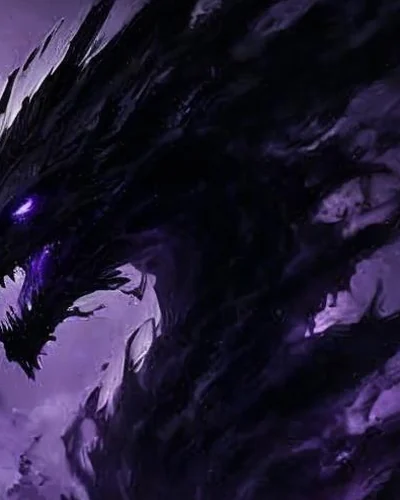
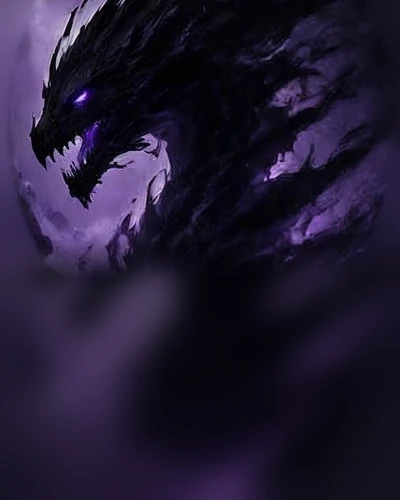
Umbral Drake: zoomed-out card art showing the whole head

diff --git a/src/i18n/cs/data/patchNotes.ts b/src/i18n/cs/data/patchNotes.ts
@@ -12,6 +12,7 @@ const notes: PatchNotesOverlay = {
         'Obrázek karty Saliho i jeho portrét Strážce jsou vycentrované, takže i jeho vstup na scénu.',
         'Nyx, Vael a Oblivie ukazují na kartě celou postavu a při legendárním vstupu jejich ostrý portrét z kampaně.',
         'Kampaň: štítek Vyzvednuto u odměny za první výhru je teď v řádku se zbytkem odměny.',
+        'Stínový drak: oddálený obrázek karty, na kterém je vidět celá hlava.',
       ],
     ],
   },

diff --git a/src/data/patchNotes.ts b/src/data/patchNotes.ts
@@ -36,6 +36,7 @@ export const PATCH_NOTES: PatchNote[] = [
           'Sali\'s card art and Warden portrait are centred, so his entrance is too.',
           'Nyx, Vael and Oblivia show their whole figure on the card, and their legendary entrance uses their sharp campaign portrait.',
           'Campaign: the Claimed tag of a first-clear reward lines up with the rest of the reward.',
+          'Umbral Drake: zoomed-out card art that shows its whole head.',
         ],
       },
     ],

diff --git a/src/ui/components/cardArtFocus.ts b/src/ui/components/cardArtFocus.ts
@@ -313,6 +313,8 @@ export const CARD_ART_FOCUS: Record<string, number> = {
   vod_wyrmbone_sanctum: 40,
   vod_grave_dragons_pact: 30,
   vod_umbral_siphon: 30,
+  // Full oval width on top, blurred fill below.
+  vod_umbral_drake: 0,
   ver_thornhide_drake: 30,
   ver_glade_wyrm: 30,
   ver_elderhorn_wyrm: 30,
